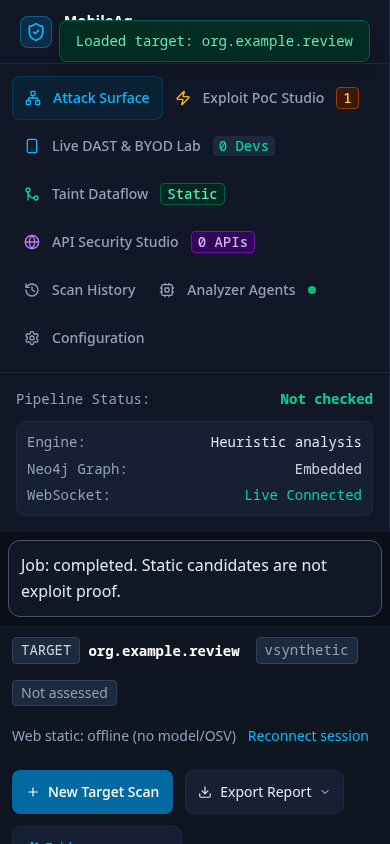
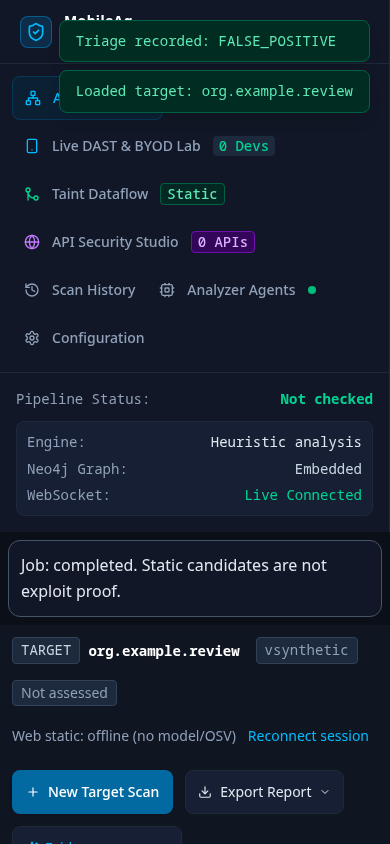
Make validation constraints portable and clarify observed device privileges

diff --git a/mobileag/web/static/dast.js b/mobileag/web/static/dast.js
@@ -60,7 +60,7 @@
             headerRootBadge.innerHTML = '● Root diagnostic';
           } else if (activeDev) {
             headerRootBadge.className = 'px-2 py-0.5 rounded text-[10px] font-mono bg-slate-800 text-slate-400 border border-slate-700';
-            headerRootBadge.innerHTML = '○ Unrooted (Shell)';
+            headerRootBadge.innerHTML = '○ Root shell not observed';
           } else {
             headerRootBadge.className = 'px-2 py-0.5 rounded text-[10px] font-mono bg-slate-900 text-slate-500 border border-slate-800';
             headerRootBadge.innerHTML = 'No Device';
@@ -107,7 +107,7 @@
           <div class="p-4 rounded-lg bg-card/60 border border-dashed border-borderSubtle text-center text-slate-400 space-y-2">
             <i data-lucide="smartphone" class="w-6 h-6 mx-auto text-slate-600"></i>
             <p class="text-xs text-slate-300 font-medium">No Android Devices / Emulators Detected</p>
-            <p class="text-[11px] text-slate-500">Start your rooted emulator (AVD, Genymotion, or Corellium) and click below or connect via TCP.</p>
+            <p class="text-[11px] text-slate-500">Start your explicitly authorized device or emulator (AVD, Genymotion, or Corellium) and click below or connect via TCP.</p>
             <div class="pt-2">
               <button data-onclick="static93" class="px-3 py-1.5 rounded bg-sky-600 hover:bg-sky-500 text-white text-[11px] font-mono">
                 Connect 127.0.0.1:5555
@@ -125,7 +125,7 @@
           ? `<span class="px-1.5 py-0.5 rounded bg-emerald-950/80 border border-emerald-700 text-[10px] font-mono text-emerald-300 font-semibold flex items-center gap-1">
                <span class="w-1 h-1 rounded-full bg-emerald-400"></span> # ROOT (uid=0)
              </span>`
-          : `<span class="px-1.5 py-0.5 rounded bg-slate-800 text-[10px] font-mono text-slate-400">Shell (non-root)</span>`;
+          : `<span class="px-1.5 py-0.5 rounded bg-slate-800 text-[10px] font-mono text-slate-400">Root shell not observed</span>`;
 
         return `
           <div ${bindAction('click', () => selectDastDevice(dev.serial))} class="p-3 rounded-lg border cursor-pointer transition ${

diff --git a/tests/test_transformation_regressions.py b/tests/test_transformation_regressions.py
@@ -192,3 +192,9 @@ async def test_launch_rejects_zero_exit_android_error():
     manager = ADBManager()
     manager._exec_cmd = AsyncMock(return_value=(0, b'Error type 3\nError: Activity class does not exist.', b''))
     assert (await manager.launch_activity('owned-device', 'org.example/.Main'))['status'] == 'failed'
+
+def test_dependency_constraints_have_no_local_artifact_references():
+    from pathlib import Path
+    snapshot = (Path(__file__).resolve().parents[1]/'requirements/validated-python314.txt').read_text()
+    assert 'file:' not in snapshot and ' @ ' not in snapshot
+    assert not any(line.lower().startswith('mobileag') for line in snapshot.splitlines() if not line.startswith('#'))

diff --git a/docs/product-security-review-2026-10-05/followup-validation/README.md b/docs/product-security-review-2026-10-05/followup-validation/README.md
@@ -70,3 +70,13 @@ brokered cloud web scans remain unsupported, not UI-only fixes.
 Reproduce using the opt-in scripts documented in the main README. Unit pytest
 uses mocks for all device/provider operations; no `TESTING` authorization bypass
 is present in production. Do not run device checks without exact explicit scope.
+
+## Remote CI portability correction
+
+The first GitHub run (`37342596827`, commit `2b9ade8`) failed during dependency
+resolution: the environment snapshot contained a MobileAg wheel URL under a
+local `/tmp` path. That self-package reference was removed; regression coverage
+now rejects local artifact references in dependency constraints. Local resolver
+dry-run succeeds. The follow-up full suite passes **164 tests**. Root-status UI
+now says “Root shell not observed,” not a claim that a device is unrooted.
+Remote CI must still be evaluated for the corrected revision.
